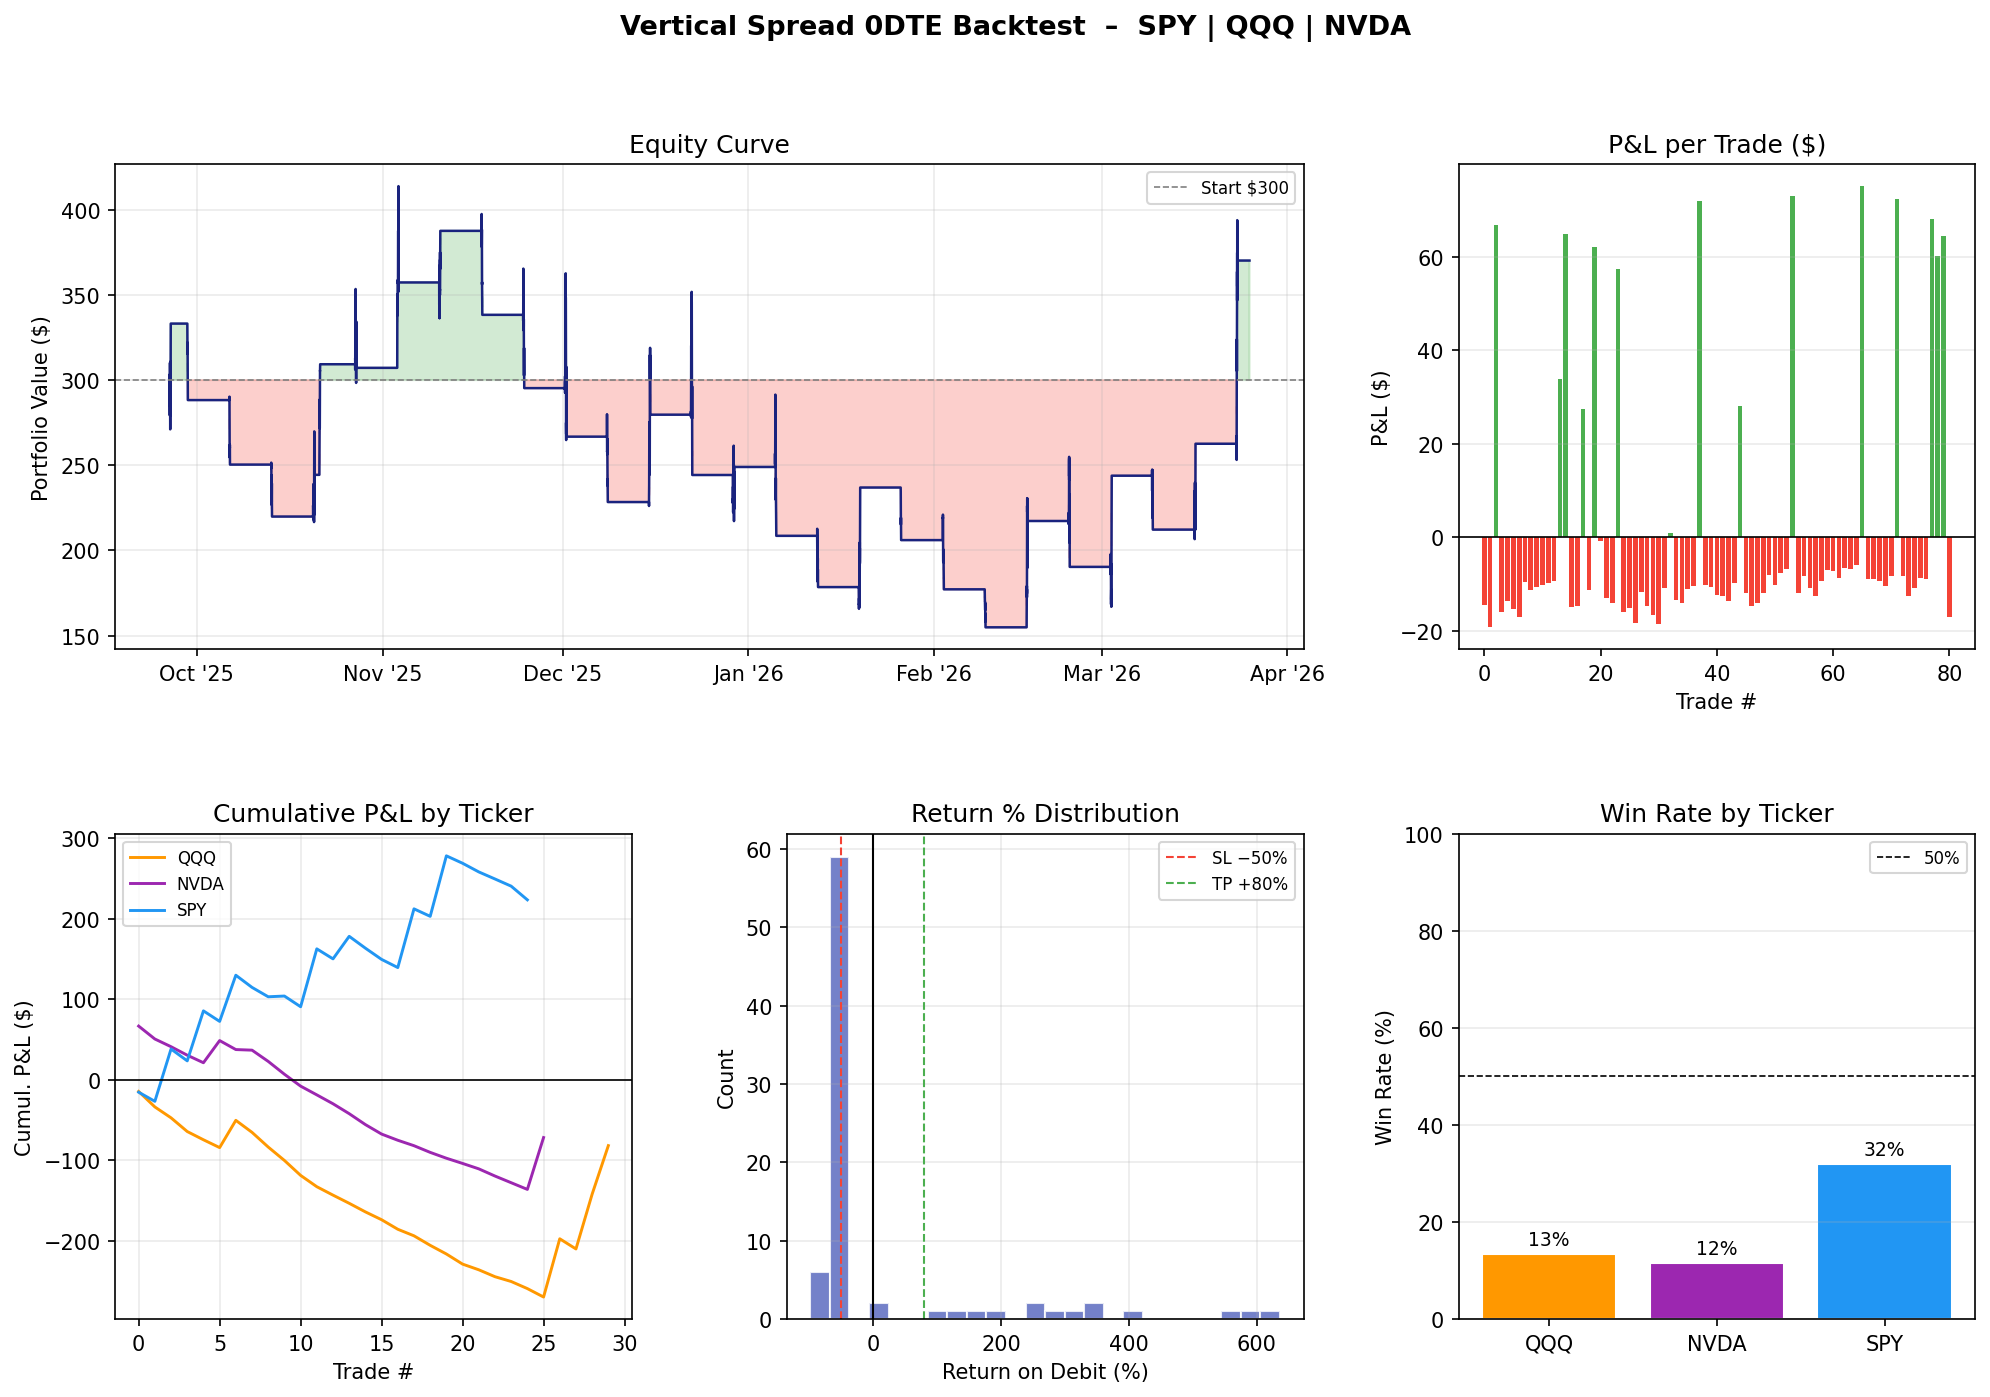
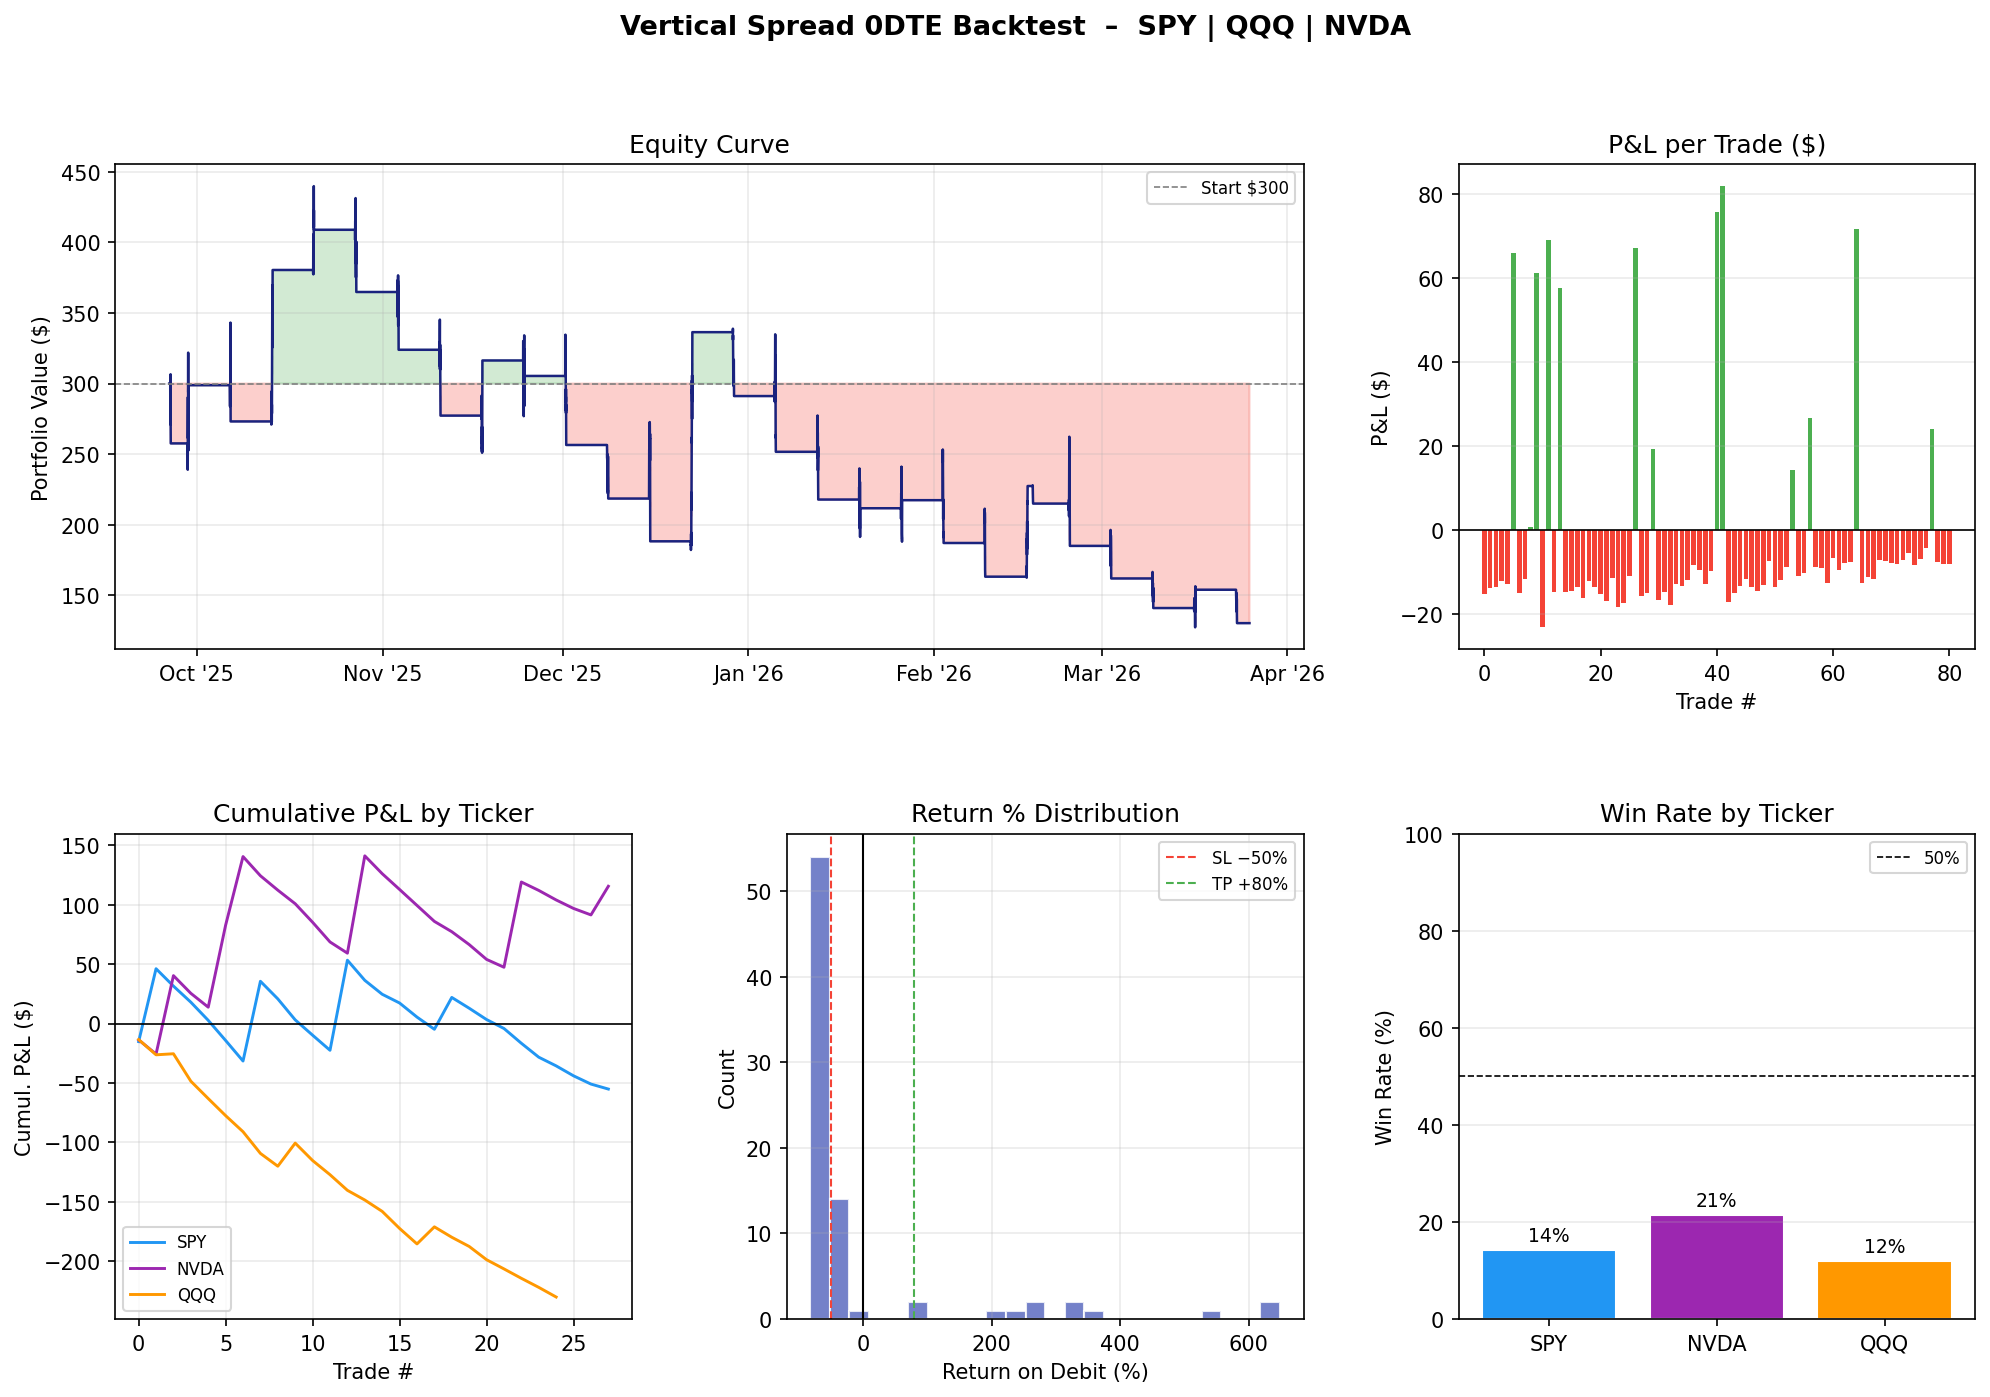
Fix RNG isolation: use per-ticker default_rng instead of global seed
Global np.random.seed() resets shared state, so ticker order determined
each ticker's random path — SPY's seed leaked into QQQ and NVDA's GBM.
Switch to np.random.default_rng(seed) so each ticker has an isolated,
reproducible RNG regardless of evaluation order.

https://claude.ai/code/session_01T4ANuZJEXvcgKVWhmFcgW6

diff --git a/backtest.py b/backtest.py
@@ -62,7 +62,9 @@ def generate_ohlcv(ticker: str, params: dict, period_days: int = 180) -> pd.Data
     Intraday volatility is amplified 1.6× in the first and last 30 minutes
     of the session to mimic the open/close auction microstructure.
     """
-    np.random.seed(params["seed"])
+    # Isolated RNG per ticker — prevents ticker-order from affecting each
+    # ticker's random path (global np.random.seed would reset shared state)
+    rng = np.random.default_rng(params["seed"])
 
     S0     = params["S0"]
     sigma  = params["vol"]
@@ -95,14 +97,14 @@ def generate_ohlcv(ticker: str, params: dict, period_days: int = 180) -> pd.Data
             # Higher vol at market open and close
             vol_scale = 1.6 if (mins_since_open < 30 or mins_to_close < 30) else 1.0
 
-            ret       = per_bar_drift + per_bar_vol * vol_scale * np.random.randn()
+            ret       = per_bar_drift + per_bar_vol * vol_scale * rng.standard_normal()
             new_price = max(price * math.exp(ret), 0.01)
 
             bar_open  = price
             intra_std = per_bar_vol * vol_scale * price
-            bar_high  = max(bar_open, new_price) + abs(np.random.randn()) * intra_std * 0.5
-            bar_low   = min(bar_open, new_price) - abs(np.random.randn()) * intra_std * 0.5
-            bar_vol   = int(np.random.lognormal(mean=12, sigma=0.5))
+            bar_high  = max(bar_open, new_price) + abs(rng.standard_normal()) * intra_std * 0.5
+            bar_low   = min(bar_open, new_price) - abs(rng.standard_normal()) * intra_std * 0.5
+            bar_vol   = int(rng.lognormal(mean=12, sigma=0.5))
 
             rows.append({
                 "Open":   round(bar_open,  2),
